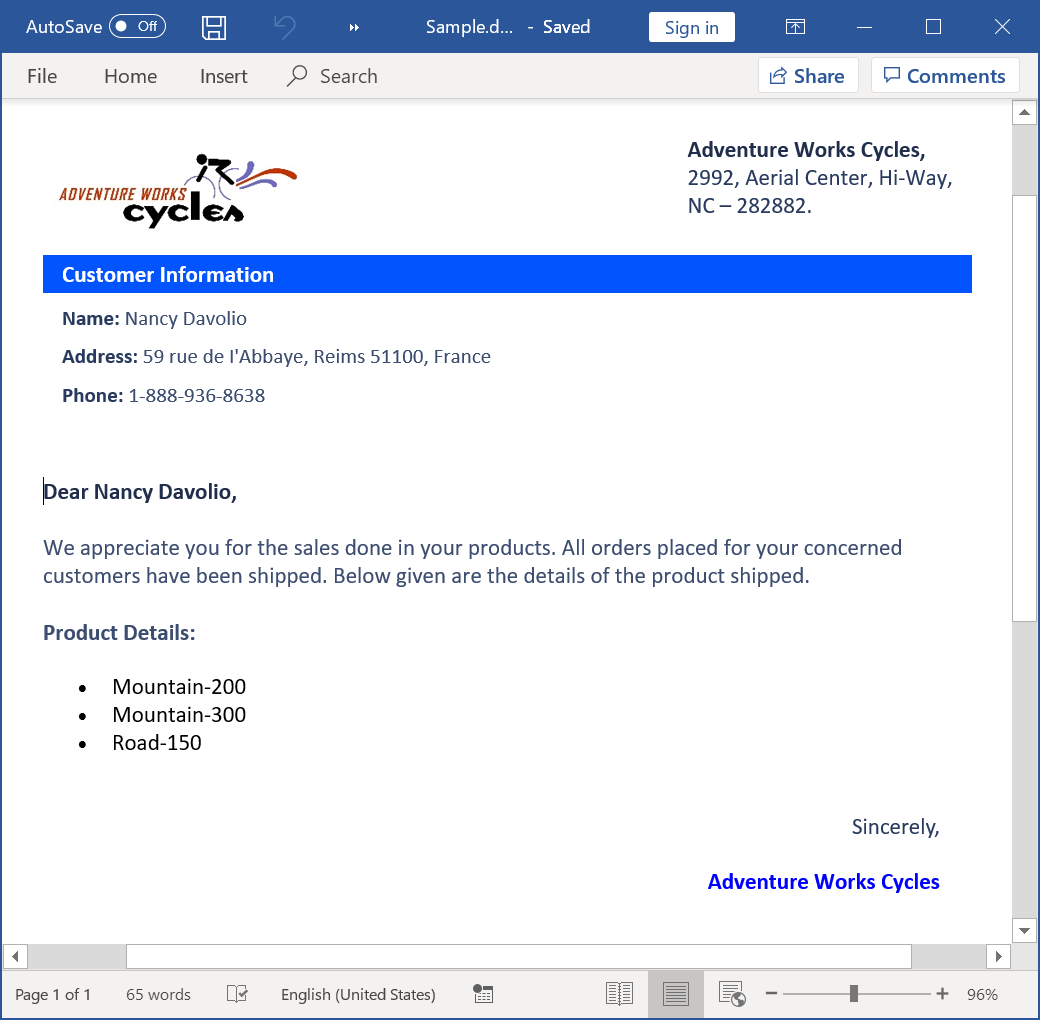
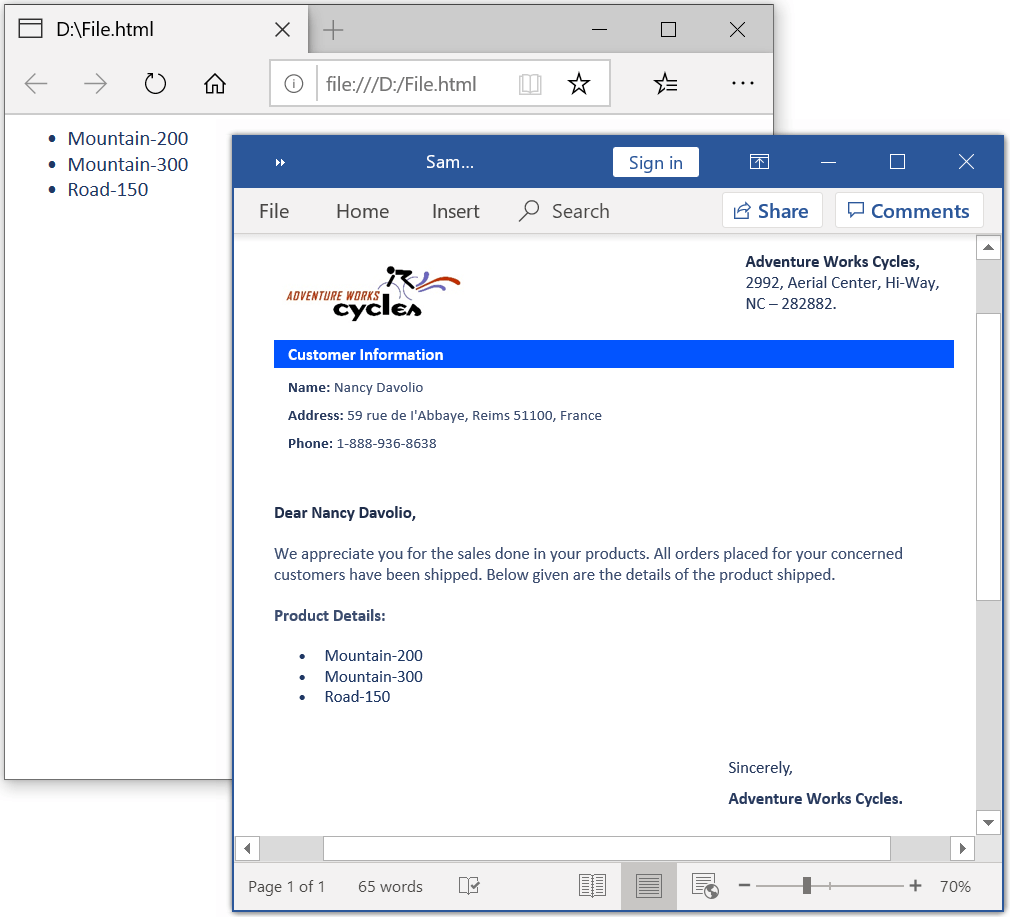
Modified the template and output images in replace merge field with HTML sample

Changed region(s): [[0.0, 0.0, 1.0, 1.0], [0.8287, 0.7939, 0.8901, 0.8244]]

diff --git a/Replace-Merge-field-with-HTML/Console-App-.NET-Framework/Replace-Merge-field-with-HTML/File.html b/Replace-Merge-field-with-HTML/Console-App-.NET-Framework/Replace-Merge-field-with-HTML/File.html
@@ -1,0 +1,11 @@
+<html>
+  <body>
+    <div style="font-family:calibri;color:#203864;">
+      <ul>
+        <li>Mountain-200</li>
+        <li>Mountain-300</li>
+        <li>Road-150</li>
+      </ul>
+    </div>
+  </body>
+</html>

diff --git a/Replace-Merge-field-with-HTML/Console-App-.NET-Framework/Replace-Merge-field-with-HTML/Program.cs b/Replace-Merge-field-with-HTML/Console-App-.NET-Framework/Replace-Merge-field-with-HTML/Program.cs
@@ -35,13 +35,15 @@ namespace Replace_Merge_field_with_HTML
         {
             if (args.TableName.Equals("HTML"))
             {
-                if (args.FieldName.Equals("ProductList") || args.FieldName.Equals("CompanyName"))
+                if (args.FieldName.Equals("ProductList"))
                 {
                     string text = args.FieldValue as string;
                     WParagraph paragraph = args.CurrentMergeField.OwnerParagraph;
                     int paraIndex = paragraph.OwnerTextBody.ChildEntities.IndexOf(paragraph);
                     int fieldIndex = paragraph.ChildEntities.IndexOf(args.CurrentMergeField);
+                    //Appends HTML string at the specified position of the document body contents
                     paragraph.OwnerTextBody.InsertXHTML(args.FieldValue.ToString(), paraIndex, fieldIndex);
+                    //Resets the field value
                     args.Text = string.Empty;
                 }
             }
@@ -57,14 +59,14 @@ namespace Replace_Merge_field_with_HTML
             dataTable.Columns.Add("Address");
             dataTable.Columns.Add("Phone");
             dataTable.Columns.Add("ProductList");
-            dataTable.Columns.Add("CompanyName");
             DataRow datarow = dataTable.NewRow();
             dataTable.Rows.Add(datarow);
             datarow["CustomerName"] = "Nancy Davolio";
             datarow["Address"] = "59 rue de I'Abbaye, Reims 51100, France";
             datarow["Phone"] = "1-888-936-8638";
-            datarow["ProductList"] = "<html><body><div style=\"font-family:calibri;\"><ul><li>Mountain-200</li><li>Mountain-300</li><li>Road-150</li></ul></div></body></html>";
-            datarow["CompanyName"] = "<html><body><p style=\"font-family:calibri;text-align:right\"><b><font color='blue'>Adventure Works Cycles</font></b></p></body></html>";
+            //Reads HTML string from the file
+            string htmlString = File.ReadAllText(@"../../File.html");
+            datarow["ProductList"] = htmlString;
             return dataTable;
         }
         #endregion
